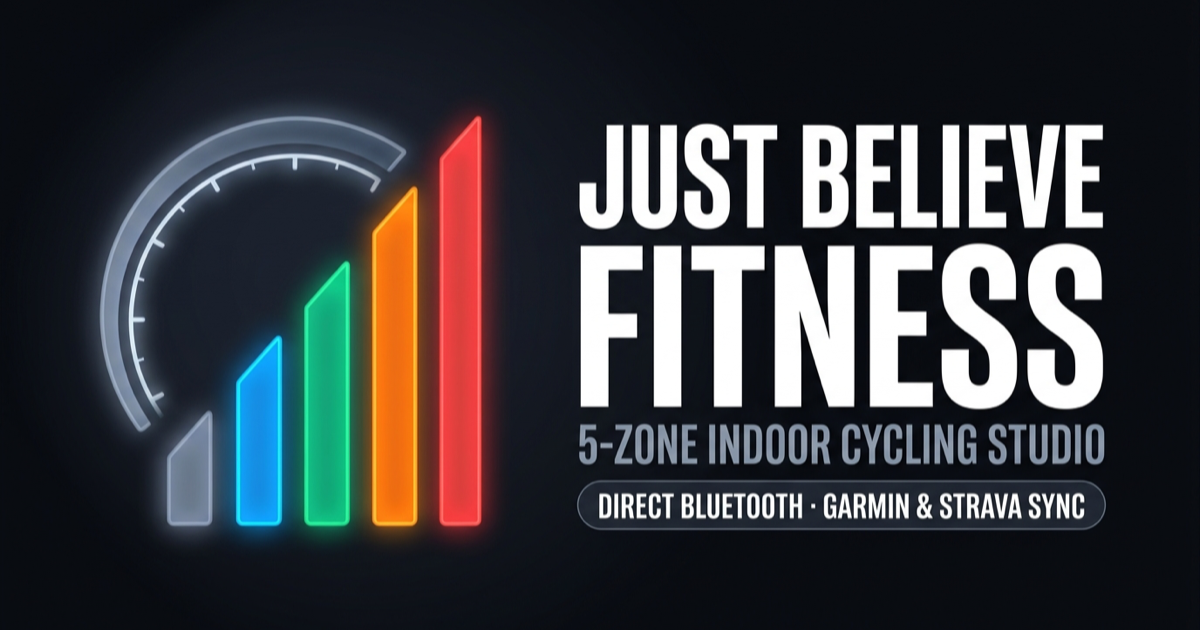
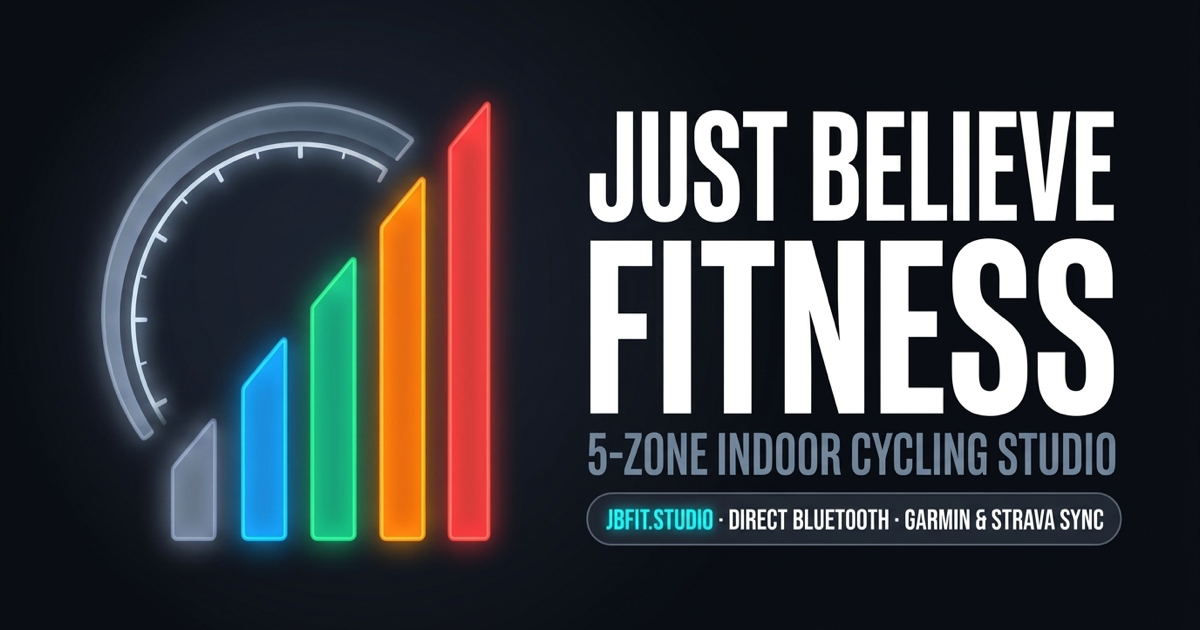
refactor: rebrand from JBF acronym to Just Believe Fitness and update domain to jbfit.studio

Changed region(s): [[0.4625, 0.1508, 0.9558, 0.8746], [0.0925, 0.1206, 0.4317, 0.9048], [0.0925, 0.4222, 0.1233, 0.6032]]

diff --git a/index.html b/index.html
@@ -15,29 +15,29 @@
     <meta name="apple-mobile-web-app-capable" content="yes" />
     <meta
       name="description"
-      content="Just Believe Fitness (JBF) — Privacy-first 5-zone indoor cycling studio with Burn Points, direct Bluetooth support for all Echelon & FTMS stationary bikes plus any BLE heart rate monitor, YouTube PiP, and Strava + Garmin sync."
+      content="Just Believe Fitness — Privacy-first 5-zone indoor cycling studio with Burn Points, direct Bluetooth support for all Echelon & FTMS stationary bikes plus any BLE heart rate monitor, YouTube PiP, and Strava + Garmin sync."
     />
     <meta property="og:type" content="website" />
     <meta property="og:site_name" content="Just Believe Fitness" />
-    <meta property="og:title" content="Just Believe Fitness (JBF) · 5-Zone Indoor Cycling Studio" />
+    <meta property="og:title" content="Just Believe Fitness · 5-Zone Indoor Cycling Studio" />
     <meta
       property="og:description"
       content="Privacy-first 5-zone indoor cycling studio with Burn Points, direct Bluetooth for Echelon & FTMS stationary bikes plus BLE heart rate, YouTube PiP, and Garmin + Strava sync."
     />
-    <meta property="og:url" content="https://justbelievefitness.netlify.app/" />
-    <meta property="og:image" content="https://justbelievefitness.netlify.app/og-image.png" />
+    <meta property="og:url" content="https://jbfit.studio/" />
+    <meta property="og:image" content="https://jbfit.studio/og-image.png" />
     <meta property="og:image:type" content="image/png" />
     <meta property="og:image:width" content="1200" />
     <meta property="og:image:height" content="630" />
     <meta property="og:image:alt" content="Just Believe Fitness 5-Zone Indoor Cycling Studio" />
     <meta name="twitter:card" content="summary_large_image" />
-    <meta name="twitter:title" content="Just Believe Fitness (JBF) · 5-Zone Indoor Cycling Studio" />
+    <meta name="twitter:title" content="Just Believe Fitness · 5-Zone Indoor Cycling Studio" />
     <meta
       name="twitter:description"
       content="Privacy-first 5-zone indoor cycling studio with direct Bluetooth bike & HR telemetry, YouTube PiP, and Garmin + Strava sync."
     />
-    <meta name="twitter:image" content="https://justbelievefitness.netlify.app/og-image.png" />
-    <title>Just Believe Fitness (JBF) · Indoor Cycling Studio</title>
+    <meta name="twitter:image" content="https://jbfit.studio/og-image.png" />
+    <title>Just Believe Fitness · Indoor Cycling Studio</title>
     <link rel="preconnect" href="https://fonts.googleapis.com" />
     <link rel="preconnect" href="https://fonts.gstatic.com" crossorigin />
     <link

diff --git a/src/__tests__/cloudSyncServices.test.ts b/src/__tests__/cloudSyncServices.test.ts
@@ -30,20 +30,20 @@ describe('Strava OAuth, Auto-Refresh, TCX Upload & Remote Metadata Sync', () => 
 
     const rideWithNotes = makeSampleRide({ notes: 'Loved the climb block!' });
     const desc = buildRideSummaryDescription(rideWithNotes);
-    expect(desc.startsWith('Loved the climb block!\n\nJust Believe Fitness (JBF)')).toBe(true);
+    expect(desc.startsWith('Loved the climb block!\n\nJust Believe Fitness')).toBe(true);
     expect(desc).toContain('Burn Points: 14');
-    expect(desc.endsWith('\njustbelievefitness.netlify.app')).toBe(true);
-    expect(desc).not.toContain('https://justbelievefitness.netlify.app');
-    expect(desc).not.toContain('justbelievefitness.netlify.app/');
+    expect(desc.endsWith('\njbfit.studio')).toBe(true);
+    expect(desc).not.toContain('https://jbfit.studio');
+    expect(desc).not.toContain('jbfit.studio/');
 
     const rideNoNotes = makeSampleRide({ notes: undefined });
     const descNoNotes = buildRideSummaryDescription(rideNoNotes);
     expect(descNoNotes.startsWith('Just Believe Fitness')).toBe(true);
-    expect(descNoNotes.endsWith('\njustbelievefitness.netlify.app')).toBe(true);
+    expect(descNoNotes.endsWith('\njbfit.studio')).toBe(true);
 
-    // Avoid duplicate link if the rider already wrote justbelievefitness.netlify.app in notes
+    // Avoid duplicate link if the rider already wrote jbfit.studio in notes
     const rideAlreadyLinked = makeSampleRide({
-      notes: 'Great ride on justbelievefitness.netlify.app',
+      notes: 'Great ride on jbfit.studio',
     });
     const descDeduped = buildRideSummaryDescription(rideAlreadyLinked);
     expect(descDeduped.match(/justbelievefitness\.netlify\.app/g)?.length).toBe(1);

diff --git a/src/components/DeviceAndStravaModals.tsx b/src/components/DeviceAndStravaModals.tsx
@@ -846,10 +846,10 @@ export function HistoryAndStravaModal({
                     size={13}
                     style={{ verticalAlign: '-2px', marginRight: '4px', color: '#0EA5E9' }}
                   />
-                  For <strong>pushing new JBF workouts</strong> to Garmin Connect (write access),
+                  For <strong>pushing new workouts</strong> to Garmin Connect (write access),
                   sign in via Garmin SSO below or paste a local session token if cloud IPs hit a
                   429 cooldown. Only rolling OAuth tokens are stored in this browser. When both
-                  Garmin and Strava are linked, JBF uploads in import mode to prevent duplicates.
+                  Garmin and Strava are linked, uploads use import mode to prevent duplicates.
                 </p>
 
                 {!garminMfaState ? (
@@ -1071,7 +1071,7 @@ export function HistoryAndStravaModal({
                     id="download-strava-app-icon"
                     className="btn btn-sm"
                   >
-                    <Download size={14} /> Download JBF App Icon (.PNG · 256×256)
+                    <Download size={14} /> Download App Icon (.PNG · 256×256)
                   </a>
                   <span style={{ fontSize: '0.73rem', color: 'var(--text-muted)' }}>
                     Upload this PNG on Strava&apos;s &ldquo;Update App Icon&rdquo; page (SVGs are

diff --git a/src/data/workouts.ts b/src/data/workouts.ts
@@ -10,14 +10,14 @@ export const WORKOUT_TEMPLATES: WorkoutTemplate[] = [
   {
     id: 'free-ride',
     name: 'Just Ride · Open Studio',
-    subtitle: 'Free-form spin with live JBF Burn Points, 5-zone gauges & YouTube PiP',
+    subtitle: 'Free-form spin with live Burn Points, 5-zone gauges & YouTube PiP',
     category: 'free',
     isFreeRide: true,
     segments: [],
   },
   {
     id: 'jbf-23-burn',
-    name: 'JBF 23-Min Signature Burn',
+    name: '23-Min Signature Burn',
     subtitle: 'Base · Push · All-Out blocks designed to stack 12+ Burn Points',
     category: 'jbf',
     segments: [
@@ -145,7 +145,7 @@ export const WORKOUT_TEMPLATES: WorkoutTemplate[] = [
   },
   {
     id: 'burn-hiit-20',
-    name: 'JBF 20-Min Burn Express',
+    name: '20-Min Burn Express',
     subtitle: 'Crisp 60s Push / 30s All-Out / 60s Recovery rounds for busy days',
     category: 'hiit',
     segments: [

diff --git a/src/services/strava.ts b/src/services/strava.ts
@@ -156,12 +156,12 @@ function sleep(ms: number): Promise<void> {
   return new Promise((resolve) => window.setTimeout(resolve, ms));
 }
 
-export const JBF_STRAVA_APP_DOMAIN = 'justbelievefitness.netlify.app';
+export const JBF_STRAVA_APP_DOMAIN = 'jbfit.studio';
 
 export function buildRideSummaryDescription(ride: SavedRide): string {
   const bikeTag = ride.bikeLabel || 'Indoor Bike';
   const statsLine = [
-    `Just Believe Fitness (JBF) · ${bikeTag}`,
+    `Just Believe Fitness · ${bikeTag}`,
     `Burn Points: ${ride.burnPoints} | Avg Power: ${ride.avgWatts}W (${ride.avgWkg.toFixed(2)} W/kg, NP ${ride.normalizedWatts}W)`,
     ride.avgHr > 0 ? `Avg HR: ${ride.avgHr} bpm (Max ${ride.maxHr} bpm)` : null,
     `Avg Cadence: ${ride.avgCadence} rpm | Calories: ${Math.round(ride.caloriesKcal)} kcal`,

diff --git a/src/App.tsx b/src/App.tsx
@@ -931,7 +931,7 @@ export function App() {
           />
           <div>
             <h1 className="brand-title">Just Believe Fitness</h1>
-            <div className="brand-sub">JBF Studio · Any Bike &amp; BLE HR</div>
+            <div className="brand-sub">Indoor Cycling Studio · Any Bike &amp; BLE HR</div>
           </div>
         </div>
 
@@ -1038,7 +1038,7 @@ export function App() {
           <span className="effort-zone-title">
             {isAnySensorLive
               ? `ZONE ${headlineZone.zone} · ${headlineZone.stageLabel}`
-              : 'JBF READY · PAIR OR START'}
+              : 'READY · PAIR OR START'}
           </span>
           <span className="effort-cue-meta">
             {activeSegmentInfo ? (

diff --git a/src/__tests__/storageAndExport.test.ts b/src/__tests__/storageAndExport.test.ts
@@ -115,7 +115,7 @@ describe('Garmin & Strava TrainingCenterDatabase (.TCX) Exporter', () => {
     expect(xml).toContain('<Activity Sport="Biking">');
     expect(xml).toContain('Push &amp; Surge &lt;All-Out&gt; &quot;Test&quot;');
     expect(xml).toContain('16 Burn pts');
-    expect(xml).toContain('\njustbelievefitness.netlify.app</Notes>');
+    expect(xml).toContain('\njbfit.studio</Notes>');
     expect(xml).toContain('<ns3:Watts>122</ns3:Watts>');
     expect(xml).toContain('<Cadence>84</Cadence>');
     expect(xml).toContain('<HeartRateBpm>');

diff --git a/src/services/tcxExporter.ts b/src/services/tcxExporter.ts
@@ -65,7 +65,7 @@ export function buildRideTcxXml(ride: SavedRide): string {
     <Activity Sport="Biking">
       <Id>${startIso}</Id>
       <Notes>${escapeXml(
-        `${ride.title} · ${ride.burnPoints} Burn pts · Avg ${ride.avgWatts}W (${ride.avgWkg.toFixed(2)} W/kg)\njustbelievefitness.netlify.app`
+        `${ride.title} · ${ride.burnPoints} Burn pts · Avg ${ride.avgWatts}W (${ride.avgWkg.toFixed(2)} W/kg)\njbfit.studio`
       )}</Notes>
       <Lap StartTime="${startIso}">
         <TotalTimeSeconds>${ride.durationSec}</TotalTimeSeconds>

diff --git a/src/services/garminConnect.ts b/src/services/garminConnect.ts
@@ -36,7 +36,7 @@ async function postGarminSync(body: Record<string, unknown>): Promise<GarminSync
   const contentType = resp.headers.get('content-type') || '';
   if (!contentType.includes('application/json')) {
     throw new Error(
-      'Garmin Connect cloud sync runs via the Netlify serverless proxy (deployed at justbelievefitness.netlify.app).'
+      'Garmin Connect cloud sync runs via the Netlify serverless proxy (deployed at jbfit.studio).'
     );
   }
 

diff --git a/src/test/fixtures.ts b/src/test/fixtures.ts
@@ -31,8 +31,8 @@ export function makeSampleRide(overrides: Partial<SavedRide> = {}): SavedRide {
 
   return {
     id: 'ride-sample-1',
-    title: 'JBF 23-Min Signature Burn',
-    workoutName: 'JBF 23-Min Signature Burn',
+    title: '23-Min Signature Burn',
+    workoutName: '23-Min Signature Burn',
     startedAtIso: '2026-11-15T22:00:00.000Z',
     endedAtIso: '2026-11-15T22:23:00.000Z',
     durationSec: 1380,

diff --git a/src/components/RidePhotoStudio.tsx b/src/components/RidePhotoStudio.tsx
@@ -112,7 +112,7 @@ export function RidePhotoStudio({
           title: title.trim() || ride.title,
           text:
             notes.trim() ||
-            `${ride.burnPoints} Burn Points on Just Believe Fitness!\njustbelievefitness.netlify.app`,
+            `${ride.burnPoints} Burn Points on Just Believe Fitness!\njbfit.studio`,
           files: [file],
         });
       } else {

diff --git a/src/services/shareCardRenderer.ts b/src/services/shareCardRenderer.ts
@@ -307,7 +307,7 @@ export function renderRideShareCanvas(
 
   ctx.fillStyle = '#F97316';
   ctx.font = '800 22px "Plus Jakarta Sans", system-ui, sans-serif';
-  ctx.fillText('JUST BELIEVE FITNESS · JBF STUDIO', padX + 92, 84);
+  ctx.fillText('JUST BELIEVE FITNESS · JBFIT.STUDIO', padX + 92, 84);
 
   ctx.fillStyle = '#94A3B8';
   ctx.font = '600 22px "JetBrains Mono", monospace';
